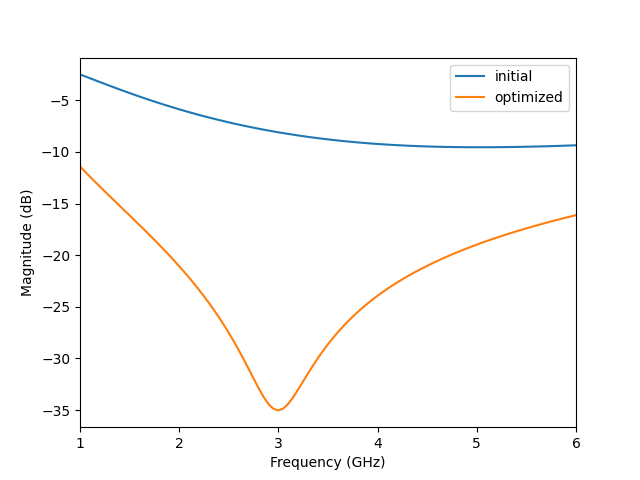
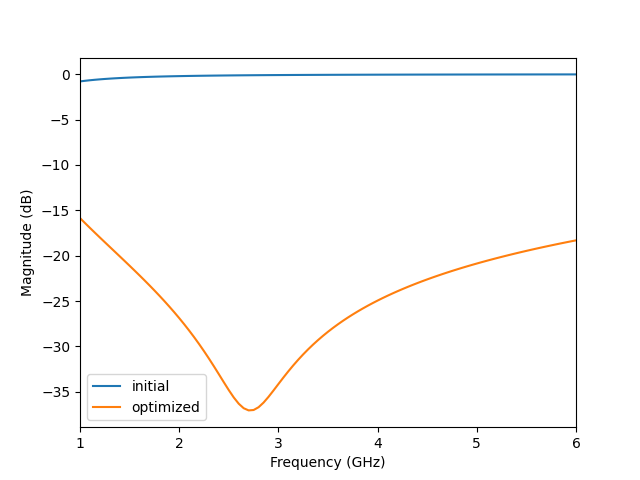
Update paper

diff --git a/paper/paper.md b/paper/paper.md
@@ -57,19 +57,19 @@ The following snippet demonstrates ParamRF's syntax and optimization API. A stan
 import pmrf as prf
 from pmrf.models import Resistor, Inductor, Capacitor
 
-res = Resistor(50)
-ind = Inductor(prf.Unconstrained(1.0, scale=1e-9))
-cap = Capacitor(prf.Unconstrained(1.0, scale=1e-12))
-model = res ** ind ** cap
+R = prf.Unconstrained(50.0, name='R')
+L = prf.Bounded(0.0, 100.0, scale=1e-9, name='L')
+C = prf.Bounded(0.0, 100.0, scale=1e-12, name='C')
 
+model = Resistor(R) ** Inductor(L) ** Capacitor(C)
 goal = prf.evaluators.Goal('s11_db', '<', -20)
-passband = prf.Frequency(3, 4, 101, 'GHz')
+passband = prf.Frequency(2, 5, 101, 'GHz')
 
 result = prf.optimize.minimize(
-    objective=goal,
-    model=model,
-    frequency=passband,
-    solver=prf.optimize.ScipyMinimize(),
+  objective=goal,
+  model=model,
+  frequency=passband,
+  solver=prf.optimize.NelderMead()
 )
 
 plot_freq = prf.Frequency(1, 6, 101, 'GHz')

diff --git a/README.rst b/README.rst
@@ -67,8 +67,6 @@ The code below demonstrate how to define and optimize an RLC model to satisfy a 
   plot_freq = prf.Frequency(1, 6, 101, 'GHz')
   model.plot_s_db(plot_freq, m=0, n=0, label='initial')
   result.model.plot_s_db(plot_freq, m=0, n=0, label='optimized')
-  
-  print(result.model.named_params())
 
 Next steps
 ----------
